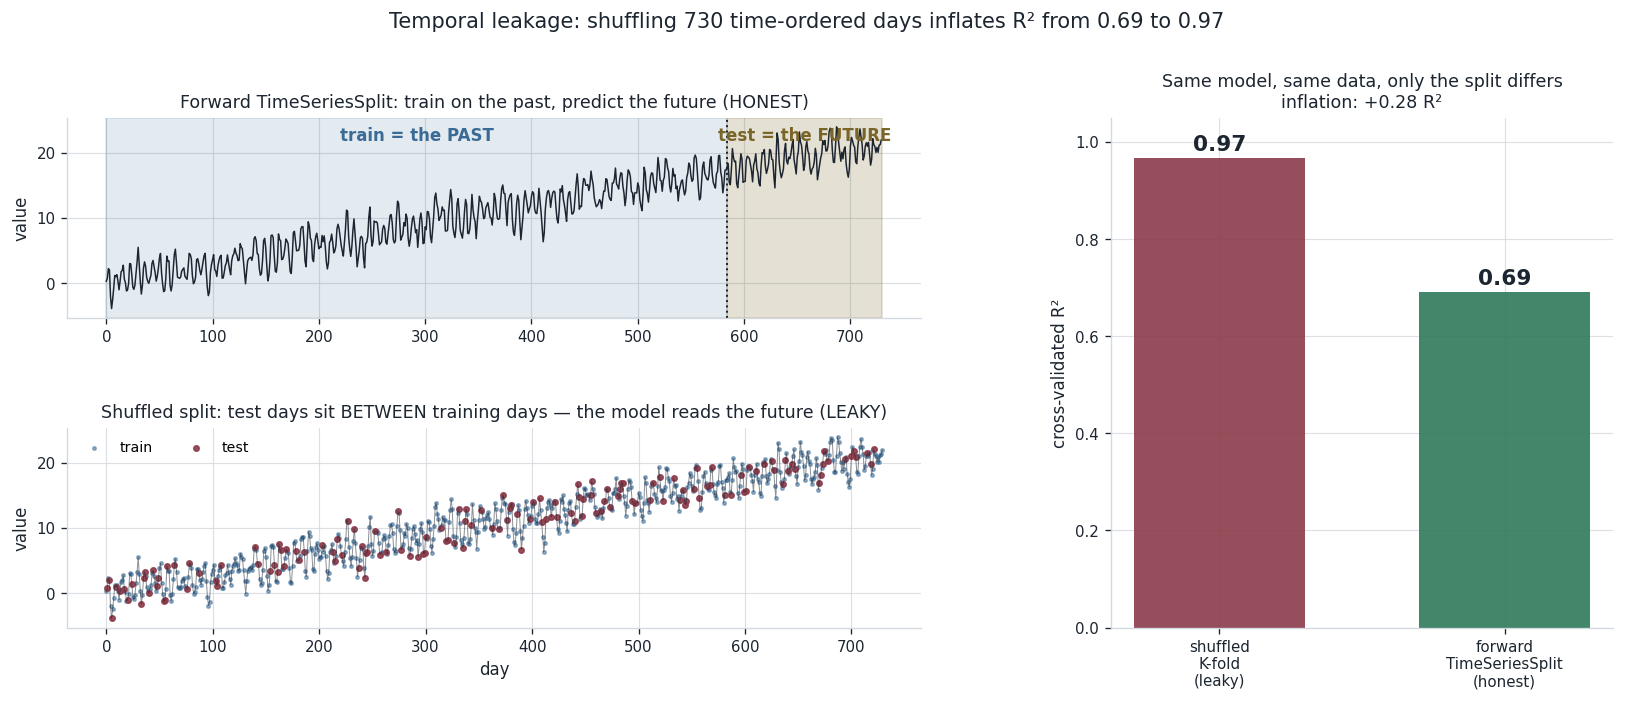
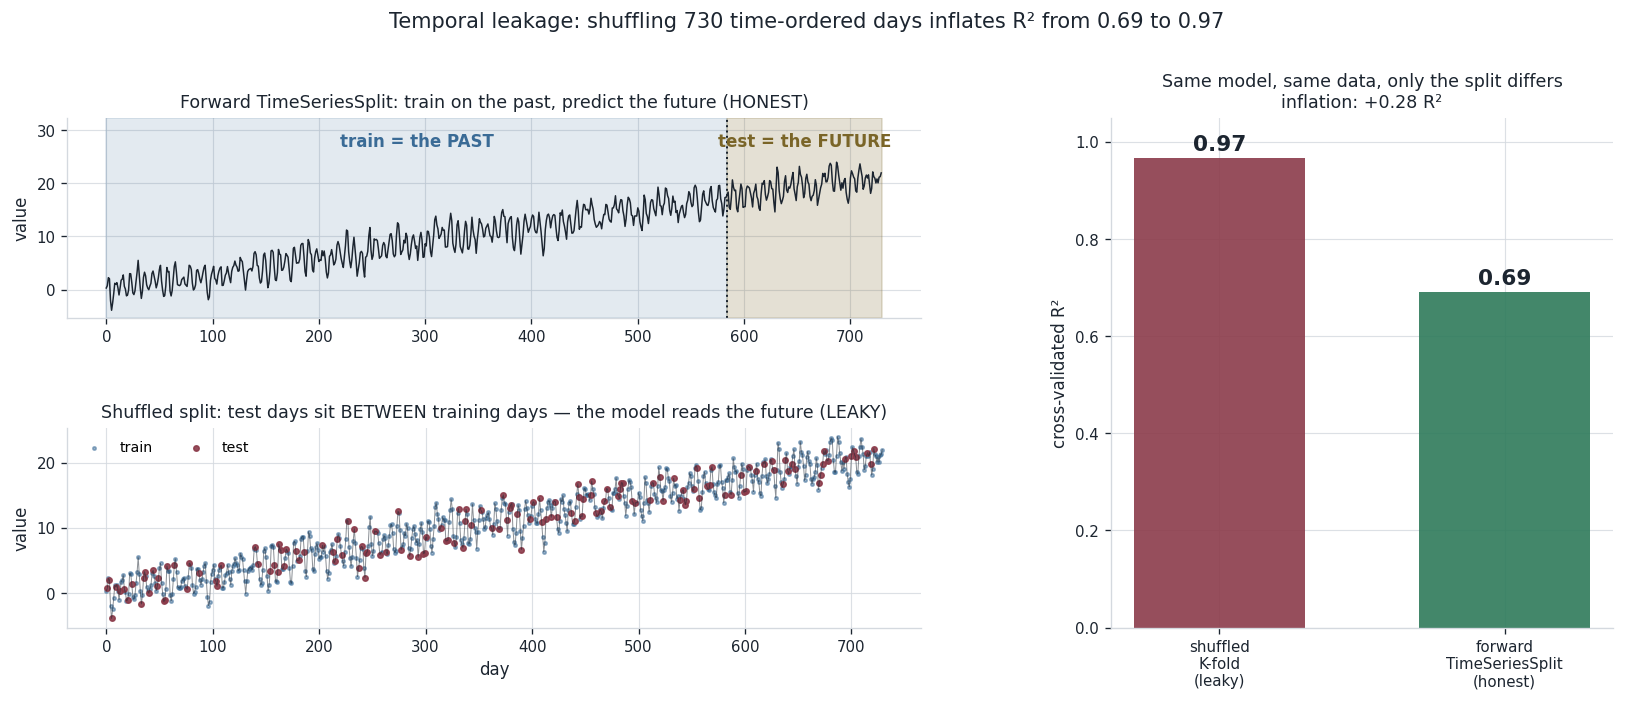
polish(02-dataprep-leakage): figure label clarity + single-seed caveat + accuracy inequality + wording
Post-review polish (Judge 9/10, Architect cleared). Measured numbers byte-identical
everywhere — only figure label positions and prose changed.

- Fig dataprep11_leaky_vs_honest: value labels now on white patches above the bars so
  the amber chance line no longer strikes through the 0.48 / 0.53 digits.
- Fig dataprep11_temporal_leak: added headroom so the 'train = the PAST' / 'test = the
  FUTURE' captions sit above the series line instead of over it.
- Added a single-seed reproducibility caveat (seed 42; leaky > honest is assertion-
  enforced and reproduces across seeds since honest = chance by construction on noise).
- Added the accuracy-form optimistic-bias inequality E[Acc_leaky] > Acc alongside the
  loss form, so the sign matches the accuracy the demos report.
- Swapped casual 'production' -> 'real world'; kept the MLOps-specific uses
  (train/serve skew, 'production systems', 14-MLOps link).

Changed region(s): [[0.0308, 0.1797, 0.5538, 0.4194], [0.1846, 0.1797, 0.3077, 0.2097]]

diff --git a/02. Data_Preprocessing/tools/make_figures_11.py b/02. Data_Preprocessing/tools/make_figures_11.py
@@ -109,11 +109,14 @@ def fig_leaky_vs_honest() -> None:
 
     fig, ax = plt.subplots(figsize=(9.5, 6.0))
     bars = ax.bar(labels, values, color=colours, alpha=0.9, width=0.62)
-    for b, v in zip(bars, values):
-        ax.text(b.get_x() + b.get_width() / 2, v + 0.015, f"{v:.2f}", ha="center", fontsize=13,
-                fontweight="bold", color=INK)
-    ax.axhline(CHANCE, color=AMBER, linestyle="--", linewidth=1.8,
+    ax.axhline(CHANCE, color=AMBER, linestyle="--", linewidth=1.8, zorder=1,
                label=f"honest truth = chance ({CHANCE:.2f})  —  the data is pure noise")
+    # value labels drawn AFTER the chance line, each on a white patch so the dashed line never
+    # strikes through a digit (the 0.48 / 0.53 bars sit right at the 0.50 line)
+    for b, v in zip(bars, values):
+        ax.text(b.get_x() + b.get_width() / 2, v + 0.022, f"{v:.2f}", ha="center", fontsize=13,
+                fontweight="bold", color=INK, zorder=6,
+                bbox={"facecolor": "white", "edgecolor": "none", "pad": 1.5})
     ax.set_ylim(0, 1.02)
     ax.set_ylabel("cross-validated accuracy")
     ax.set_title(
@@ -304,9 +307,13 @@ def fig_temporal_leak() -> None:
     ax_series.axvspan(0, cut, color=BLUE, alpha=0.14)
     ax_series.axvspan(cut, n, color=AMBER, alpha=0.20)
     ax_series.axvline(cut, color=INK, linestyle=":", linewidth=1.2)
-    ax_series.text(cut / 2, ts.series.max(), "train = the PAST", ha="center", va="top", color=BLUE,
+    # add headroom above the series so the captions sit ABOVE the line, not over it
+    _ymin, _ymax = ts.series.min(), ts.series.max()
+    ax_series.set_ylim(_ymin - 0.05 * (_ymax - _ymin), _ymax + 0.30 * (_ymax - _ymin))
+    _label_y = _ymax + 0.14 * (_ymax - _ymin)
+    ax_series.text(cut / 2, _label_y, "train = the PAST", ha="center", va="center", color=BLUE,
                    fontsize=10, fontweight="bold")
-    ax_series.text((cut + n) / 2, ts.series.max(), "test = the FUTURE", ha="center", va="top",
+    ax_series.text((cut + n) / 2, _label_y, "test = the FUTURE", ha="center", va="center",
                    color=AMBER, fontsize=10, fontweight="bold")
     ax_series.set_title("Forward TimeSeriesSplit: train on the past, predict the future (HONEST)",
                         fontsize=10.5, color=GREEN)

diff --git a/02. Data_Preprocessing/11-Data-Leakage/11-Data-Leakage.md b/02. Data_Preprocessing/11-Data-Leakage/11-Data-Leakage.md
@@ -21,7 +21,7 @@ That 86% is **pure fiction** — thirty-six points of skill on a problem with ze
 
 That gap — inflated score, honest truth, and the discipline that separates them — is what this chapter is about. Leakage is not a property of your model; it is a property of your **protocol**. It is the single most reliable way to fool yourself in ML, which is exactly why it is one of the most-asked applied interview questions: it separates people who have *shipped* models from people who have only *fit* them.
 
-> **The one-sentence core.** *Data leakage is any information available to the model at training time that will **not** be available at prediction time; it makes your validation score **optimistically biased** — great in the notebook, collapsing in production — and the cure is not a better model but a better protocol: **fit every data-dependent step (scale, impute, select, encode, target-statistics) using only the training portion of each split, and split time-ordered data by time**, which scikit-learn's `Pipeline` + correct cross-validation enforces structurally.*
+> **The one-sentence core.** *Data leakage is any information available to the model at training time that will **not** be available at prediction time; it makes your validation score **optimistically biased** — great in the notebook, collapsing in the real world — and the cure is not a better model but a better protocol: **fit every data-dependent step (scale, impute, select, encode, target-statistics) using only the training portion of each split, and split time-ordered data by time**, which scikit-learn's `Pipeline` + correct cross-validation enforces structurally.*
 
 I'll teach this the way I'd teach it at a whiteboard — **felt problem first** (a score you can't reproduce, measured on noise where the truth is *known*), then **intuition** (studying with the answer key taped inside your textbook), then the **mechanism** (where leakage physically enters a split or a CV loop, with a diagram), then the **taxonomy** (the four doors it walks through and *why each one inflates the estimate*), then three **worked, measured demos** — preprocessing leakage, target leakage on real medical data, and temporal leakage — each with the leaky number, the honest number, and the fix, then **pitfalls**, then the real-world **horror stories**. By the end you'll be able to:
 
@@ -35,7 +35,7 @@ I'll teach this the way I'd teach it at a whiteboard — **felt problem first** 
 
 ## The problem: a score you cannot reproduce
 
-Every practitioner meets leakage the same way: a model that is *too good*. Validation accuracy is suspiciously high, the ROC curve hugs the corner, and for a moment you believe you're brilliant. Then the model touches genuinely new data — a later month, a different hospital, actual production traffic — and the number falls off a cliff. The gap between the two is almost always leakage: at fit time the model drank in something it won't have at predict time.
+Every practitioner meets leakage the same way: a model that is *too good*. Validation accuracy is suspiciously high, the ROC curve hugs the corner, and for a moment you believe you're brilliant. Then the model touches genuinely new data — a later month, a different hospital, actual real-world traffic — and the number falls off a cliff. The gap between the two is almost always leakage: at fit time the model drank in something it won't have at predict time.
 
 The reason leakage is so dangerous is that **it is invisible in a single number.** A leaky 86% and an honest 86% look identical on the page. You cannot tell a real score from an inflated one by staring at it; the inflation only becomes visible when you build the *honest* protocol next to the leaky one and watch the number move. That is the entire method of this chapter, and it is why I opened on **pure noise**: when the data has no signal, the honest answer is *provably* chance (0.50), so every point above 0.50 is leakage you can *measure*, not merely suspect. The 86% in the figure above is 36 measured points of pure protocol error.
 
@@ -51,9 +51,9 @@ Imagine studying for an exam with a textbook that has **the answer key taped ins
 
 That is exactly data leakage, and the mapping is precise:
 
-- **The practice test** is your validation/test set — the stand-in for the real exam (production).
+- **The practice test** is your validation/test set — the stand-in for the real exam (the real world).
 - **The answer key taped inside** is any information that leaked from those evaluation rows into training. In the noise demo, the "answer key" was the *feature selection* peeking at which columns correlated with the label *across all rows, including the ones it would later be scored on.*
-- **The inflated practice score** is your leaky validation accuracy. **The real exam** is production, where the key is gone and the true ability shows.
+- **The inflated practice score** is your leaky validation accuracy. **The real exam** is the real world, where the key is gone and the true ability shows.
 - **The fix** is to study with the answer key *removed* — do your practice problems using only what you'll have in the real exam. In ML: fit every data-dependent step using only the *training* rows of each split, so the model never glimpses the evaluation rows while learning.
 
 The analogy holds up under pressure, which is how you know it's a good one:
@@ -92,7 +92,7 @@ graph TD
     classDef out fill:#3A6B96,stroke:#2A5B86,color:#fff
 ```
 
-The left path is the bug: `fit_transform(X)` on everything, *then* split. The transform has now seen the evaluation rows, so when you score on them the model has an unfair whisper of their distribution. The right path is the cure: split *first*, fit the transform on the training portion, apply those frozen statistics to the held-out portion. The held-out rows influence *nothing* about how they're processed — which is precisely the situation in production, where they don't exist yet.
+The left path is the bug: `fit_transform(X)` on everything, *then* split. The transform has now seen the evaluation rows, so when you score on them the model has an unfair whisper of their distribution. The right path is the cure: split *first*, fit the transform on the training portion, apply those frozen statistics to the held-out portion. The held-out rows influence *nothing* about how they're processed — which is precisely the situation in the real world, where they don't exist yet.
 
 Cross-validation makes this subtler and more dangerous, because it's easy to fit a transform *once* on all the training data and then cross-validate — and every fold's validation portion has still leaked into that transform. The transform must be **re-fit inside each fold**, on that fold's training rows only:
 
@@ -110,9 +110,9 @@ Leakage is one idea — train-time access to prediction-time-unavailable informa
 
 **1. Preprocessing leakage (train/test contamination).** A data-dependent transform is fit on data that includes the evaluation rows — the mechanism above. Fitting a `StandardScaler`, an imputer, `SelectKBest`, or a target encoder on the whole dataset before splitting, or once before a CV loop. *Why it inflates:* the transform encodes statistics of the evaluation rows (their mean, their label-correlation), so the model is evaluated on rows it partially shaped. This is our **Demo 1**, and the mildest-looking yet most pervasive door.
 
-**2. Target (feature) leakage.** A *feature* is a proxy for, or is computed from, the label — information that in reality only exists *after* the outcome you're predicting. Classic examples: a "was_contacted_by_collections" flag when predicting loan default (you only get contacted *because* you defaulted); a lab test that is ordered *because* the diagnosis is suspected; a `total_charges` column when predicting whether a customer churned (charges accrue over a tenure that ends at churn). *Why it inflates:* the feature carries the answer, so the model looks brilliant — but the feature won't exist at prediction time (you're predicting *before* the outcome), so in production the model loses its crutch. This is our **Demo 2**, on real medical data.
+**2. Target (feature) leakage.** A *feature* is a proxy for, or is computed from, the label — information that in reality only exists *after* the outcome you're predicting. Classic examples: a "was_contacted_by_collections" flag when predicting loan default (you only get contacted *because* you defaulted); a lab test that is ordered *because* the diagnosis is suspected; a `total_charges` column when predicting whether a customer churned (charges accrue over a tenure that ends at churn). *Why it inflates:* the feature carries the answer, so the model looks brilliant — but the feature won't exist at prediction time (you're predicting *before* the outcome), so in the real world the model loses its crutch. This is our **Demo 2**, on real medical data.
 
-**3. Temporal leakage.** For time-ordered data, training on rows from the *future* relative to the rows you predict. A random (shuffled) train/test split, or plain K-fold CV, scatters future observations into the training set, so the model interpolates answers it should have to *forecast*. *Why it inflates:* real forecasting only ever has the past; a shuffled split hands the model the future, which it cannot have in production. This is our **Demo 3**.
+**3. Temporal leakage.** For time-ordered data, training on rows from the *future* relative to the rows you predict. A random (shuffled) train/test split, or plain K-fold CV, scatters future observations into the training set, so the model interpolates answers it should have to *forecast*. *Why it inflates:* real forecasting only ever has the past; a shuffled split hands the model the future, which it cannot have in the real world. This is our **Demo 3**.
 
 **4. Group / duplicate contamination.** The same entity appears in both train and test — near-duplicate rows, multiple visits by the same patient, augmented copies of the same image, the same user split across folds. *Why it inflates:* the model memorizes the entity in training and "recognizes" it in test, scoring on identity rather than generalization. The fix is *grouped* splitting (scikit-learn's [`GroupKFold`](https://scikit-learn.org/stable/modules/cross_validation.html#group-cv)) so an entity is never on both sides.
 
@@ -132,7 +132,9 @@ The whole game is the phrase *"a fresh example the model has never touched."* An
 
 Leakage **breaks the independence.** When a transform is fit on all the data, the processing of a held-out row $x_i$ depends on $x_i$ itself (and on its label $y_i$, if selection or target-encoding used labels). The held-out rows are no longer fresh — the model was tuned, however slightly, *toward* them. So the estimator becomes **optimistically biased**:
 
-$$\mathbb{E}\big[\widehat{\text{Err}}_{\text{leaky}}\big] \;<\; \text{Err} \qquad (\text{for a loss; the accuracy is inflated}).$$
+$$\mathbb{E}\big[\widehat{\text{Err}}_{\text{leaky}}\big] \;<\; \text{Err} \qquad\Longleftrightarrow\qquad \mathbb{E}\big[\widehat{\text{Acc}}_{\text{leaky}}\big] \;>\; \text{Acc}.$$
+
+The left form is for a *loss* (the estimated error is too *low*); the right is the equivalent statement for *accuracy* (the estimated accuracy is too *high*) — and since every demo below reports accuracy (or R²), the right-hand inequality, $\mathbb{E}[\widehat{\text{Acc}}_{\text{leaky}}] > \text{Acc}$, is the one you'll see in the numbers: leaky > honest, every time.
 
 The size of the bias grows with *how much* of the evaluation rows' information leaked in. This is exactly what the noise demo measures, and it is why the leak *scales with $k$*:
 
@@ -177,6 +179,8 @@ The measured result, reproducible from the seed:
 ```
 
 The only difference between the two blocks is a `Pipeline`, and it moves the reported accuracy by **38 points** — from a confident lie to the honest truth, corroborated by a hold-out that never entered either computation. This is the whole chapter in six lines of code.
+
+> **On reproducibility.** All numbers on this page are from a single seed (42), so the exact figures (0.86, 0.48, …) are one-run point estimates and will wobble a little with the seed. The claim that *matters* — **leaky > honest** — is not a lucky draw: it is enforced by assertions in the module and reproduces across seeds, because on pure noise the honest score is chance *by construction*, so any excess is leakage no matter the seed. You'd pin the precise numbers down with more repeats; the *direction and mechanism* are what's robust.
 
 ---
 
@@ -290,7 +294,7 @@ That is why this chapter sits at the heart of preprocessing: every other step (s
 
 ## Recap and rapid-fire
 
-**If you remember nothing else:** data leakage is train-time access to information you won't have at prediction time; it makes your validation score **optimistically biased** — great in the notebook, collapsing in production. On pure noise (honest truth = chance), selecting features on all data before CV reported **0.86**; the `Pipeline` fix reported **0.48**, confirmed by a hold-out at **0.53**. On real medical data, a proxy-of-the-label column took accuracy to **1.00** (and predicted the label **1.00** on its own); dropping it returned the honest **0.96**. On a time series, a shuffled split scored **0.97** R²; a forward `TimeSeriesSplit` scored **0.69**. The cure is a **protocol**, not a model: fit every data-dependent step on training rows only (put it in a `Pipeline`, cross-validate the pipeline), split time-ordered data by time, and drop features that won't exist at prediction time.
+**If you remember nothing else:** data leakage is train-time access to information you won't have at prediction time; it makes your validation score **optimistically biased** — great in the notebook, collapsing in the real world. On pure noise (honest truth = chance), selecting features on all data before CV reported **0.86**; the `Pipeline` fix reported **0.48**, confirmed by a hold-out at **0.53**. On real medical data, a proxy-of-the-label column took accuracy to **1.00** (and predicted the label **1.00** on its own); dropping it returned the honest **0.96**. On a time series, a shuffled split scored **0.97** R²; a forward `TimeSeriesSplit` scored **0.69**. The cure is a **protocol**, not a model: fit every data-dependent step on training rows only (put it in a `Pipeline`, cross-validate the pipeline), split time-ordered data by time, and drop features that won't exist at prediction time.
 
 **Quick-fire — say these out loud:**
 
@@ -301,7 +305,7 @@ That is why this chapter sits at the heart of preprocessing: every other step (s
 - *A single feature predicts your target almost perfectly. Reaction?* Suspect target leakage — that feature is probably the label in disguise or a post-outcome proxy. Check whether it exists at prediction time.
 - *How do you evaluate a time-series model?* Split by time (`TimeSeriesSplit`) — train on the past, predict the future. Never shuffle; a random split trains on the future.
 - *How does a `Pipeline` prevent leakage?* `cross_val_score` fits the whole pipeline on each fold's training rows and only predicts on the validation rows, so every transform is fit on training data only — structurally, you can't leak.
-- *You get 99% in the notebook and 70% in production. First hypothesis?* Data leakage — build the honest protocol, check an untouched hold-out, and see whether the 99% reproduces.
+- *You get 99% in the notebook and 70% in the real world. First hypothesis?* Data leakage — build the honest protocol, check an untouched hold-out, and see whether the 99% reproduces.
 - *Is leakage a model problem or a protocol problem?* A protocol problem — it doesn't depend on the model; swap the classifier and the leak persists.
 
 ---
